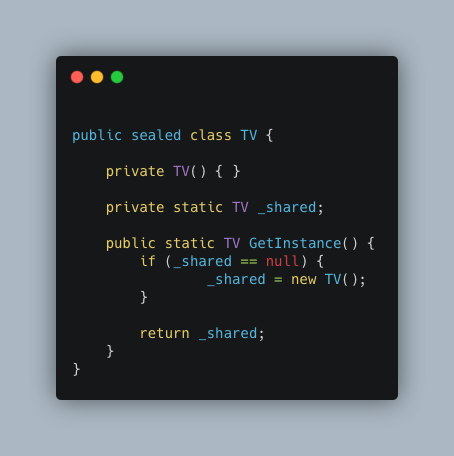
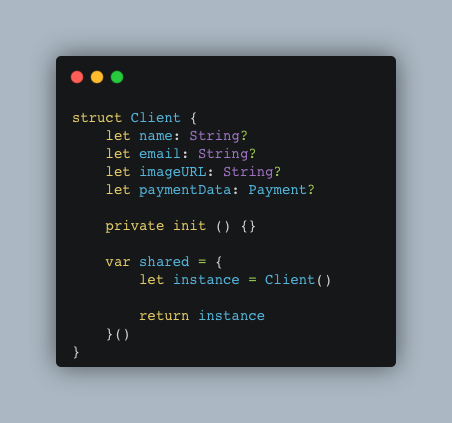
Atualização exemplo Singleton.

diff --git a/docs/pages/fase_03/gofSingleton.md b/docs/pages/fase_03/gofSingleton.md
@@ -12,7 +12,7 @@
 Os padrões de projeto descrevem uma solução geral para um problema que acontece recorrentemente dentro de um projeto de software. Este documento tem como objetivo explicar sobre o padrão GoF Singleton e suas aplicações. 
 
 ## Metodologia
-O Singleton é um GoF criacional que permite que uma classe disponha de apenas uma instância, podendo ser acessada globalmente em outras classes. Dessa forma, uma classe será responsável por gerenciar a própria instância, além de evitar que novas instâncias sejam criadas. Abaixo, um exemplo de Singleton em C#:
+O Singleton é um GoF criacional que permite que uma classe disponha de apenas uma instância, podendo ser acessada globalmente em outras classes. Dessa forma, uma classe será responsável por gerenciar a própria instância, além de evitar que novas instâncias sejam criadas. Abaixo, um exemplo de Singleton em Swift:
 
 ![Relação entre acoplamento de coesão](../../assets/images/exemploSingleton.png)
 
